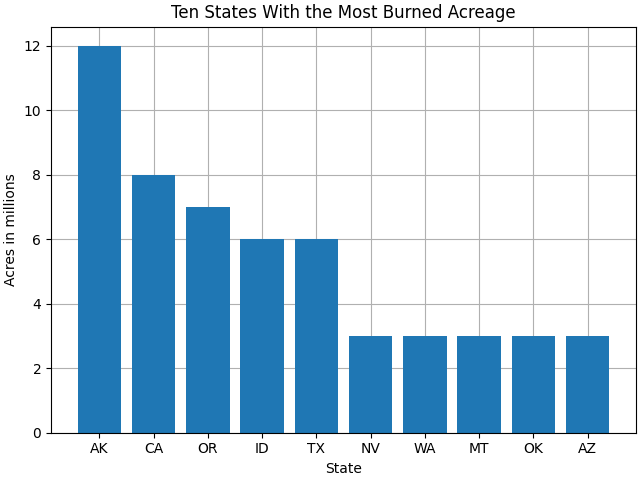
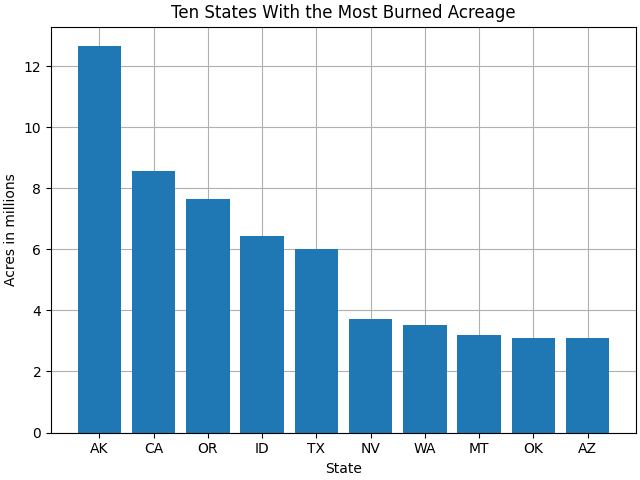
Fixed states_with_highest_acreage bug

diff --git a/src/data_exploration/data_plotting.py b/src/data_exploration/data_plotting.py
@@ -124,7 +124,7 @@ def graph_states_with_highest_acreage_sums(rows):
 
     for x, y in rows:
         label_list.append(x)
-        acreage_list.append(int(float(y)/1000000))
+        acreage_list.append(float(y)/1000000)
     
     plt.bar(label_list, acreage_list, zorder=2)
     plt.title('Ten States With the Most Burned Acreage')
